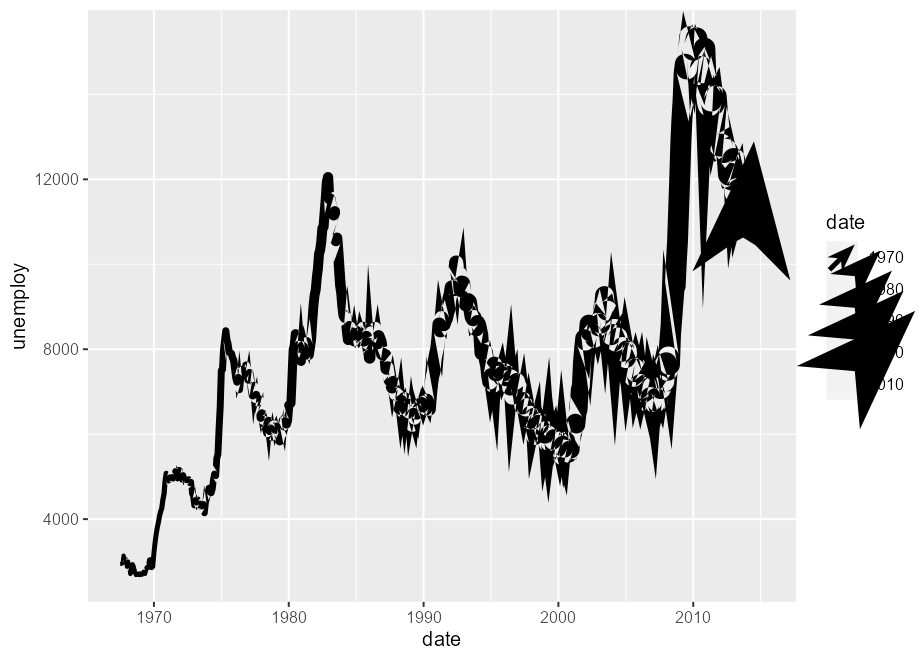
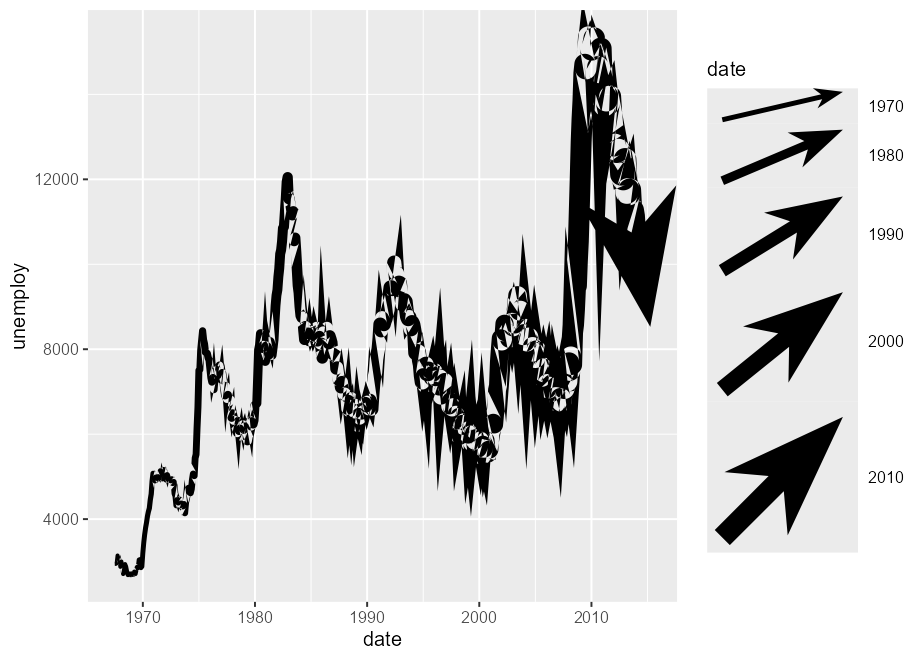
render readme

diff --git a/README.md b/README.md
@@ -41,7 +41,6 @@ the `geom_arrow()` function that, unsurprisingly, draws arrows.
 ``` r
 library(ggarrow)
 #> Loading required package: ggplot2
-#> Warning: package 'ggplot2' was built under R version 4.3.2
 
 p <- ggplot(whirlpool(5), aes(x, y, colour = group)) +
   coord_equal() +
@@ -161,19 +160,15 @@ p + geom_arrow() +
 
 ## Limitations
 
-The current limitations are twofold. The variable width paths don’t lend
+The current limitation is that variable width paths don’t lend
 themselves well to jagged paths with short segments. This is because I
 had to implement linejoins for variable width paths and I barely have
 high-school level understanding of trigonometry. Consequently, the
-linejoins look bad with short jagged segments. The other limitation is
-that there is no good mechanism in place for setting the size of a
-legend key, so these might be off.
+linejoins look bad with short jagged segments.
 
 ``` r
 ggplot(economics, aes(date, unemploy)) +
   geom_arrow(aes(linewidth = date))
-#> Warning in angle[which(keep)] <- atan2(y[final] - newy, x[final] - newx):
-#> number of items to replace is not a multiple of replacement length
 ```
 
 <img src="man/figures/README-jagged-1.png" width="80%" style="display: block; margin: auto;" />
